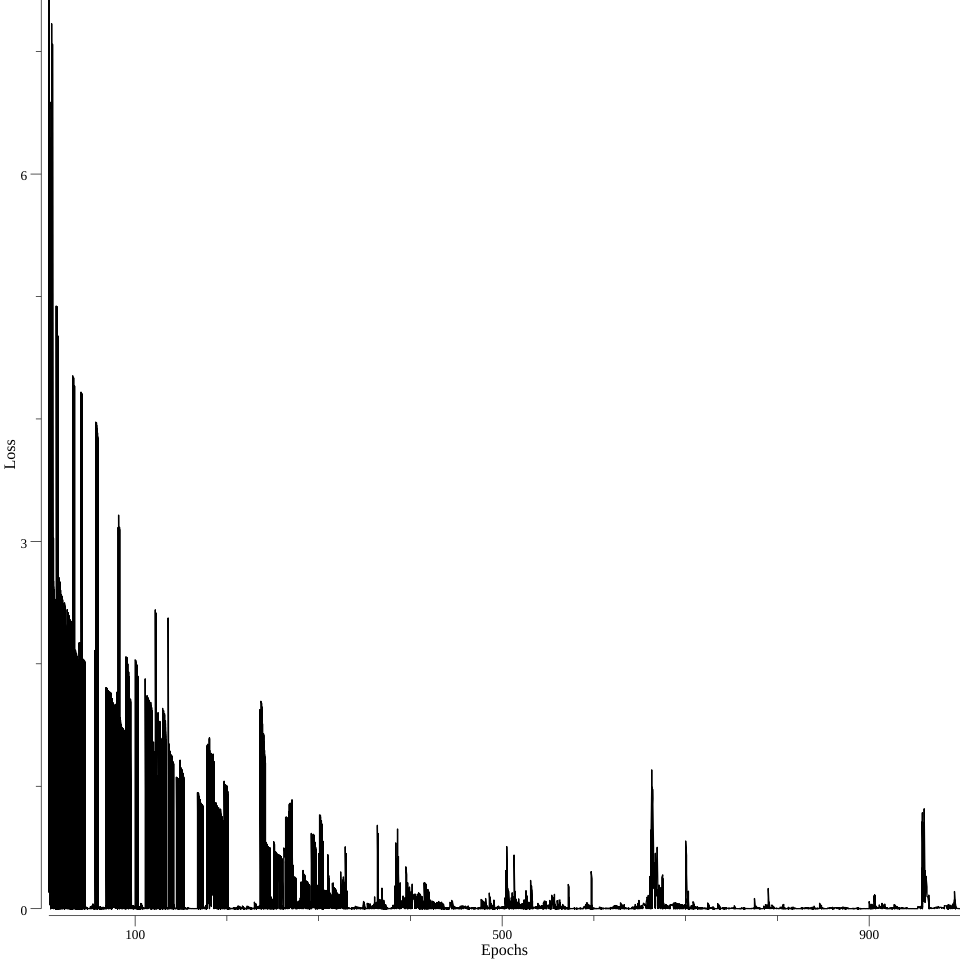
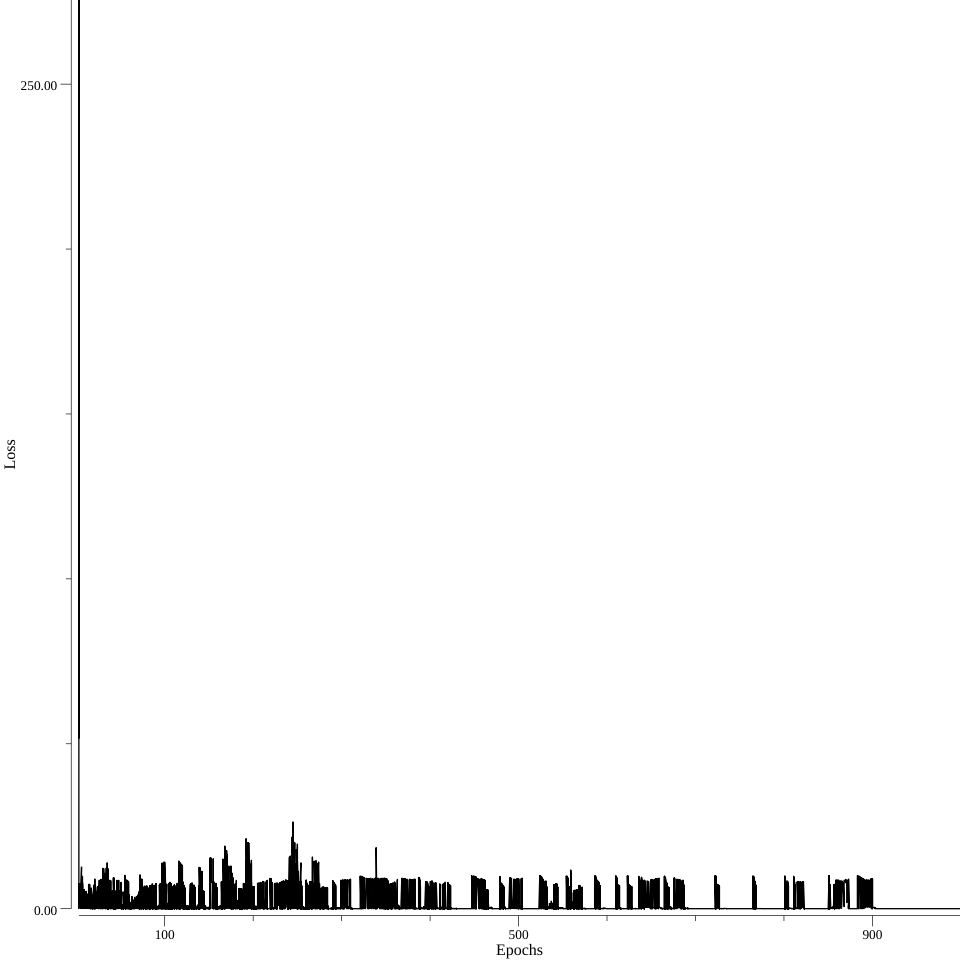
still not working

Changed region(s): [[0.0312, 0.0, 0.75, 1.0], [0.7812, 0.8438, 0.9688, 0.9688], [0.9688, 0.9375, 1.0, 0.9688]]

diff --git a/rl/w4.go b/rl/w4.go
@@ -9,6 +9,7 @@ import (
 	"github.com/gokadin/ml-framework/tensor"
 	"math/rand"
 	"runtime"
+	"sync"
 	"time"
 )
 
@@ -59,10 +60,7 @@ func (w *W4) Run() {
 	batchNewState := tensor.Variable(mat.WithShape(w.batchSize, w.stateSize))
 	batchNewQVal := w.model.PredictNoGrad(batchNewState)
 
-	//xTrain := tensor.Variable(mat.WithShape(w.batchSize, w.numActions)) // ???
-	//batchX := tensor.Variable(mat.WithShape(w.batchSize, w.stateSize))
 	batchY := tensor.Variable(mat.WithShape(w.batchSize, w.numActions))
-	//pred := w.model.Predict(batchX)
 	loss := w.model.Loss(batchOldQVal, batchY)
 
 	w.metric.events.trainingStarted <- true
@@ -72,8 +70,7 @@ func (w *W4) Run() {
 		//w.createRandomGame()
 		w.createGame()
 
-		oldStateMat := w.addNoise(w.gridWorld.GetState())
-		oldState.SetData(oldStateMat)
+		oldState.SetData(w.addNoise(w.gridWorld.GetState()))
 
 		moveCounter := 0
 		gameInProgress := true
@@ -86,54 +83,25 @@ func (w *W4) Run() {
 			w.metric.events.gameActionTaken <- true
 			reward := w.gridWorld.GetReward()
 
-			newStateMat := w.addNoise(w.gridWorld.GetState())
-			newState.SetData(newStateMat)
+			newState.SetData(w.addNoise(w.gridWorld.GetState()))
 
-			oldStateMat = newStateMat
-			oldState.SetData(oldStateMat)
-
-			replayBuffer.Append(oldStateMat, newStateMat, action, reward)
+			replayBuffer.Append(oldState.Data(), newState.Data(), action, reward)
 			if replayBuffer.IsFull() {
-				// start
 				batchOldStateSlice := make([]float32, w.batchSize * w.stateSize)
 				batchNewStateSlice := make([]float32, w.batchSize * w.stateSize)
-				// end
-				//xTrainSlice := make([]float32, w.batchSize * w.numActions)
-				//batchYSlice := make([]float32, w.batchSize * w.numActions)
 				experienceBatch := replayBuffer.NextBatch()
 				for batchIndex, experience := range experienceBatch {
-					//batchOldState.SetData(experience.oldState)
-					//batchNewState.SetData(experience.newState)
-					//w.model.Forward(batchOldQVal)
-					//w.model.Forward(batchNewQVal)
-					//batchMaxQValue := maxValue(batchNewQVal.Data().Data())
-
-					// start
 					for stateIndex := 0; stateIndex < w.stateSize; stateIndex++ {
 						batchOldStateSlice[batchIndex * w.stateSize + stateIndex] = experience.oldState.At(stateIndex)
 						batchNewStateSlice[batchIndex * w.stateSize + stateIndex] = experience.newState.At(stateIndex)
 					}
-					// end
-
-					//for actionIndex := 0; actionIndex < w.numActions; actionIndex++ {
-						//xTrainSlice[batchIndex * w.numActions + actionIndex] = batchOldQVal.Data().At(actionIndex)
-					//	if actionIndex == experience.action {
-					//		batchYSlice[batchIndex * w.numActions + actionIndex] = w.calculateYValue(batchMaxQValue, experience.reward)
-					//		continue
-					//	}
-					//	batchYSlice[batchIndex * w.numActions + actionIndex] = batchOldQVal.Data().At(actionIndex)
-					//}
 				}
 				batchOldState.SetData(mat.NewMat32f(mat.WithShape(w.batchSize, w.stateSize), batchOldStateSlice))
 				batchNewState.SetData(mat.NewMat32f(mat.WithShape(w.batchSize, w.stateSize), batchNewStateSlice))
-				//xTrain.SetData(mat.NewMat32f(mat.WithShape(w.batchSize, w.numActions), xTrainSlice))
-				//batchY.SetData(mat.NewMat32f(mat.WithShape(w.batchSize, w.numActions), batchYSlice))
 
-				// start
-				w.model.Forward(batchOldQVal) // all of the old qvalues
-				w.model.Forward(batchNewQVal) // all of the old new q values
+				w.model.Forward(batchOldQVal)
+				w.model.Forward(batchNewQVal)
 
-				// replace max Q values
 				batchYSlice := make([]float32, w.batchSize * w.numActions)
 				for batchIndex, experience := range experienceBatch {
 					maxQValue := maxValue(batchNewQVal.Data().Data()[batchIndex * w.numActions:batchIndex * w.numActions + w.numActions])
@@ -146,7 +114,6 @@ func (w *W4) Run() {
 					}
 				}
 				batchY.SetData(mat.NewMat32f(mat.WithShape(w.batchSize, w.numActions), batchYSlice))
-				// end
 
 				w.model.Forward(loss)
 				w.metric.events.loss <- loss.Data().At(action)
@@ -163,6 +130,8 @@ func (w *W4) Run() {
 				if reward == 10 {
 					w.metric.events.gameWon <- true
 				}
+			} else {
+				oldState.SetData(newState.Data())
 			}
 		}
 
@@ -178,6 +147,10 @@ func (w *W4) Run() {
 	}
 
 	w.metric.events.trainingFinished <- true
+	wg := &sync.WaitGroup{}
+	wg.Add(1)
+	w.metric.finalize(wg)
+	wg.Wait()
 	w.model.Save("experimental-rl-batch")
 }
 
@@ -244,9 +217,7 @@ func (w *W4) test() {
 
 func (w *W4) buildModel() *models.Model {
 	model := models.Build(
-		//modules.Dense(200, modules.ActivationRelu),
-		//modules.Dense(150, modules.ActivationSigmoid),
-		//modules.Dense(100, modules.ActivationSigmoid),
+		modules.Dense(200, modules.ActivationRelu),
 		modules.Dense(164, modules.ActivationRelu),
 		modules.Dense(150, modules.ActivationRelu),
 		modules.Dense(4, modules.ActivationIdentity))

diff --git a/rl/metric.go b/rl/metric.go
@@ -5,6 +5,7 @@ import (
 	"gonum.org/v1/plot"
 	"gonum.org/v1/plot/plotter"
 	"gonum.org/v1/plot/vg"
+	"sync"
 	"time"
 )
 
@@ -90,10 +91,6 @@ func (m *metric) receiveEvents() {
 			fmt.Println("beginning training")
 		case <- m.events.trainingFinished:
 			fmt.Println("training finished")
-			m.p.Add(m.lossLine)
-			if err := m.p.Save(10*vg.Inch, 10*vg.Inch, "loss-per-epoch-w4.png"); err != nil {
-				panic(err)
-			}
 		case <- m.events.epochStarted:
 			m.timings["epoch"].timeMs = time.Now().UnixNano()
 		case <- m.events.epochFinished:
@@ -143,5 +140,14 @@ func (m *metric) receiveEvents() {
 				m.counters["gameActionsTotal"] / m.counters["epochs"],
 				m.counters["gameWins"] * 100 / m.counters["totalGames"]))
 		}
+	}
+}
+
+func (m *metric) finalize(wg *sync.WaitGroup) {
+	defer wg.Done()
+
+	m.p.Add(m.lossLine)
+	if err := m.p.Save(10*vg.Inch, 10*vg.Inch, "loss-per-epoch-w4.png"); err != nil {
+		panic(err)
 	}
 }

diff --git a/rl/replayBuffer.go b/rl/replayBuffer.go
@@ -42,8 +42,11 @@ func (rb *ReplayBuffer) IsFull() bool {
 
 func (rb *ReplayBuffer) NextBatch() []*replayExperience {
 	batch := make([]*replayExperience, rb.batchSize)
-	for i, randomIndex := range rand.Perm(rb.batchSize) {
+	for i, randomIndex := range rand.Perm(rb.bufferSize) {
 		batch[i] = rb.experiences[randomIndex]
+		if i == rb.batchSize - 1 {
+			break
+		}
 	}
 	return batch
 }

diff --git a/main.go b/main.go
@@ -15,8 +15,8 @@ func main() {
 
 func rltest() {
 	ws := rl.NewW4()
-	//ws.Run()
-	ws.RunSaved()
+	ws.Run()
+	//ws.RunSaved()
 }
 
 func mnist() {
